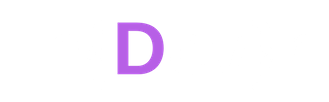
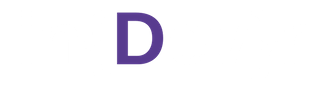
Commiting branch

Changed region(s): [[0.3385, 0.1395, 0.5231, 0.7674]]

diff --git a/src/components/About.js b/src/components/About.js
@@ -1,5 +1,6 @@
 import React, { Component } from 'react'
 import glam from 'glamorous'
+import { css } from 'glamor'
 
 class About extends Component {
     constructor(props) {
@@ -24,16 +25,16 @@ class About extends Component {
                 <Title>Meet the Team</Title>
                     <Section>
                         <Person>
-                            <a href='' target='_blank' rel="noopener noreferrer"><div className='spot1'><i className='fas fa-spinner fa-pulse fa-7x' data-fa-transform='grow-6 down-16' color='var(--main-purple)'></i></div></a>
-                            <p> Sukanya Vee </p>
+                            <a href='' target='_blank' rel="noopener noreferrer"><div className='spot1'><i className='fas fa-spinner fa-pulse fa-7x' data-fa-transform='grow-6 down-16' color='var(--main-grey)'></i></div></a>
+                            <p><strong>Sukanya Vee</strong></p>
                         </Person>
                         <Person className='two'>
-                            <a href='http://astringham.com' target='_blank' rel="noopener noreferrer"><div className='spot2'><i className="fas fa-sync fa-spin fa-7x" data-fa-transform='grow-6 down-16' color='var(--main-purple)'></i></div></a>
-                            <p> Andrea Stringham </p>
+                            <a href='http://astringham.com' target='_blank' rel="noopener noreferrer"><div className='spot2'><i className="fas fa-sync fa-spin fa-7x" data-fa-transform='grow-6 down-16' color='var(--main-grey)'></i></div></a>
+                            <p><strong>Andrea Stringham</strong></p>
                         </Person>
                         <Person className='three'>
-                            <a href='' target='_blank' rel="noopener noreferrer"><div className='spot3'><i className="fas fa-cog fa-spin fa-7x" data-fa-transform="grow-6 down-16" color='var(--main-purple)'></i></div></a>
-                            <p> Brent Eckert </p>
+                            <a href='' target='_blank' rel="noopener noreferrer"><div className='spot3'><i className="fas fa-cog fa-spin fa-7x" data-fa-transform="grow-6 down-16" color='var(--main-grey)'></i></div></a>
+                            <p><strong>Brent Eckert</strong></p>
                         </Person>
                     </Section>
             </Main>
@@ -41,27 +42,37 @@ class About extends Component {
     }
 }
 
+const grow = css.keyframes({
+    '0%': { transform: `scale(1.3)`},
+    '100%': { transform: `scale(1.0)`}
+})
+
 const Main = glam.div({
     minHeight: '100vh',
     width: '100vw',
-    backgroundColor: 'var(--main-purple)',
+    backgroundColor: 'var(--main-grey)',
     textAlign: 'center',
     marginTop: 0,
+    color: 'var(--main-purple)'
     // '& .heading': {
     //     marginTop: 0,
     // }
 })
 
 const Title = glam.p({
+    margin: 'auto',
+    marginBottom: 20,
     paddingTop: 50,
     fontSize: '36pt',
-    color: 'white',
+    color: 'var(--main-purple)',
     fontWeight: '700',
+    borderBottom: 'solid var(--main-purple) 3px',
+    width: 400,
 })
 
 const Description = glam.section({
     margin: 'auto',
-    color: 'white',
+    color: 'var(--main-purple)',
     fontSize: '14pt',
     width: '75%'
 })
@@ -71,19 +82,25 @@ const Section = glam.section({
         height: 300,
         width: 300,
         borderRadius: '50%',
-        backgroundColor: 'var(--main-grey)',
+        boxShadow: '5px 5px 5px 0px black',
+        backgroundColor: 'var(--main-purple)',
+        '& :hover': {
+            animation: `${grow} 5s ease-in-out alternate`
+        }
     },
     '& .spot2': {
         height: 300,
         width: 300,
         borderRadius: '50%',
-        backgroundColor: 'var(--main-grey)',
+        boxShadow: '5px 5px 5px 0px black',
+        backgroundColor: 'var(--main-purple)',
     },
     '& .spot3': {
         height: 300,
         width: 300,
         borderRadius: '50%',
-        backgroundColor: 'var(--main-grey)',
+        boxShadow: '5px 5px 5px 0px black',
+        backgroundColor: 'var(--main-purple)',
         '& .fa-black-tie': {
             zIndex: 10,
 
@@ -105,8 +122,8 @@ const Person = glam.div({
         paddingBottom: 20,
     },
     '& p': {
-        fontSize: '16pt',
-        color: 'white',
+        fontSize: '22pt',
+        color: 'var(--main-purple)',
     }
 })
 

diff --git a/src/components/Footer.js b/src/components/Footer.js
@@ -1,8 +1,9 @@
 import React, { Component } from 'react'
 import glam from 'glamorous'
 import { Link } from 'react-router-dom'
-import logo from '../assets/in_DEV_r.png'
+import logo from '../assets/in_DEV_rFoot.png'
 import SearchBar from './SearchBar'
+import {connect } from 'react-redux'
 
 
 class Footer extends Component {
@@ -13,13 +14,16 @@ class Footer extends Component {
     }
 
     render() {
+        console.log(this.props.id, this.props.user)
         return (
             <Foot>
                 <div>
-                    <SearchBar />
+                    <SearchBar className='search'/>
                 </div>
                 <div>
+                    <Link to={this.props.user.id ? '/dashboard' : '/'} className='img-responsive'>
                     <Image src={logo} alt='' />
+                    </Link>
                 </div>
                 <div>
                     <Link to='/about/indevr' style={link}>About</Link>
@@ -35,7 +39,7 @@ const Foot = glam.div({
     width: '100vw',
     minHeight: 100,
     
-    backgroundColor: 'var(--main-black)',
+    backgroundColor: 'var(--main-purple)',
     display: 'flex',
     flexDirection: 'row',
     justifyContent: 'space-around',
@@ -50,10 +54,14 @@ const Foot = glam.div({
     '& a':{
         margin: 20
     },
+    '& .search': {
+        marginTop: 30,
+    }
 })
 
 const Image = glam.img({
-    height: 50
+    height: 75,
+    marginBottom: 10,
 })
 
 const link = {
@@ -61,4 +69,11 @@ const link = {
     textDecoration: 'none',
 }
 
-export default Footer;
+function mapStateToProps(state){
+    const { user } = state;
+    return {
+        user
+    }
+}
+
+export default connect(mapStateToProps)(Footer);

diff --git a/src/components/LandingPage.js b/src/components/LandingPage.js
@@ -4,6 +4,7 @@ import { connect } from "react-redux";
 import axios from "axios";
 import Auth0Lock from "auth0-lock";
 import glam from "glamorous";
+import { css } from 'glamor';
 import Tasks from "./landing-page-assets/taskboard/tasks";
 import Profile from './landing-page-assets/profile/profile';
 import Project from './landing-page-assets/projectview/project';
@@ -114,6 +115,12 @@ class LandingPage extends Component {
   }
 }
 
+
+const bounce = css.keyframes({
+  '0%': {transform: `scale(1.3)`},
+  '100%': {transform: `scale(1.0)`}
+})
+
 // const Initial = glam.section({
 //   display: "flex",
 //   flexDirection: "row",
@@ -125,6 +132,7 @@ class LandingPage extends Component {
 const Desc = glam.p({
   // margin: 20,
   width: "90%",
+  // animation: `${bounce} 5s ease-in-out alternate`,
   "hover & .text": {
     color: 'black'
 },
@@ -169,6 +177,7 @@ const Heading = glam.h1({
   padding: 20,
   // boxShadow: '0px 0px 0px 4px var(--main-purple)',
   // border: 'solid var(--main-purple) 2px',
+  animation: `${bounce} 5s ease-in-out alternate`,
   '& :hover': {
     backgroundColor: 'var(--main-purple)',
     color: 'white',
@@ -233,6 +242,7 @@ const Btnlogin = glam.button({
   height: 100,
   width: 200,
   marginLeft: 20,
+  animation: `${bounce} 5s ease-in-out alternate`,
   '@media (max-width: 729px)': {
     fontSize: '14pt',
     height: 75,

diff --git a/src/components/AltHeader.js b/src/components/AltHeader.js
@@ -38,7 +38,7 @@ class Header extends Component {
                             </li>}
                             {this.props.user.id && <li className="dropdown mobile-hide" id="user-img">
                                 <a href="" className="dropdown-toggle" data-toggle="dropdown" role="button" aria-haspopup="true" aria-expanded="false">
-                                    <img src={this.props.user.picture} alt="user"/>
+                                    <img src={this.props.user.picture} alt="user" className='profilepic'/>
                                     <span className="caret"></span>
                                 </a>
                                 <ul className="dropdown-menu">
@@ -88,6 +88,8 @@ const Nav = glam.nav({
     fontSize: 18,
     '& img':{
         maxHeight: 70,
+    },
+    '& .profilepic': {
         borderRadius: '50%',
     },
     '& #user-img':{

diff --git a/src/components/landing-page-assets/projectview/project.js b/src/components/landing-page-assets/projectview/project.js
@@ -69,9 +69,12 @@ const Topic2 = glam.section({
 
 const Desc = glam.span({
     width: '45%',
-    height: '55%',
-    fontSize: '24pt',
-    // marginTop: 100,
+    height: '100%',
+    fontSize: '22pt',
+    display: 'flex',
+    flexDirection: 'column',
+    justifyContent: 'center',
+    alignItems: 'center',
     '& .p': {
         padding: 10,
     },
@@ -84,9 +87,12 @@ const Desc = glam.span({
 })
 const Desc2 = glam.span({
     width: '45%',
-    height: '55%',
-    fontSize: '24pt',
-    // marginTop: 20,
+    height: '100%',
+    fontSize: '22pt',
+    display: 'flex',
+    flexDirection: 'column',
+    justifyContent: 'center',
+    alignItems: 'center',
     '& .p': {
         padding: 10,
     },

diff --git a/src/components/Overview.js b/src/components/Overview.js
@@ -73,7 +73,7 @@ class  Overview extends Component  {
                 <ProjectTitle>
                     <div>
                         {this.state.project.project_name}
-                        <a href={this.state.project.repo} target="_blank"><i class="far fa-code-branch pull-right"></i></a>
+                        <a href={this.state.project.repo} target="_blank"><i className="far fa-code-branch pull-right"></i></a>
                     </div>
                     {this.state.project.user_id===this.props.user.id &&
                     <div><Edit id="remove" onClick={e=>{this.setState({editShow: true})}}>edit details</Edit><Edit onClick={e=>{this.deleteProj()}}>delete</Edit></div>}

diff --git a/src/router.js b/src/router.js
@@ -11,7 +11,6 @@ import ExplorePage from './components/ExplorePage';
 import EditProfile from './components/EditProfile';
 import About from './components/About';
 import Contact from './components/Contact';
-// import Whiteboard from './components/Whiteboard';
 
 
 export default (
@@ -27,6 +26,5 @@ export default (
         <Route path='/about/indevr' component={About} />
         <Route path="/explore" component={ExplorePage}/>
         <Route path='/contact/indevr' component={Contact} />
-        {/* <Route path='/whiteboard' component={Whiteboard} /> */}
     </Switch>
 )

diff --git a/server/server.js b/server/server.js
@@ -215,8 +215,8 @@ io.on('connection', (socket) => {
 });
 
 //Socket.io Whiteboard Setup
-function onConnection(socket){
-    socket.on('drawing', (data) => socket.broadcast.emit('drawing', data));
-}
+// function onConnection(socket){
+//     socket.on('drawing', (data) => socket.broadcast.emit('drawing', data));
+// }
 
-io.on('connection', onConnection);
+// io.on('connection', onConnection);

diff --git a/server/controller/auth0_controller.js b/server/controller/auth0_controller.js
@@ -52,7 +52,6 @@ module.exports = {
   //Check User Session - Associated with App.js
   sessionCheck: (req, res) => {
       res.status(200).send(req.session.user);
-
     // if (req.session.user) {
     //   res.status(200).send(req.session.user);
     // } else {

diff --git a/src/components/Whiteboard.js b/src/components/Whiteboard.js
@@ -1,4 +1,5 @@
-'use strict';
+import React, {Component} from 'react';
+import io from 'socket.io-client'
 // const io = require('socket.io');
 
 (function() {
